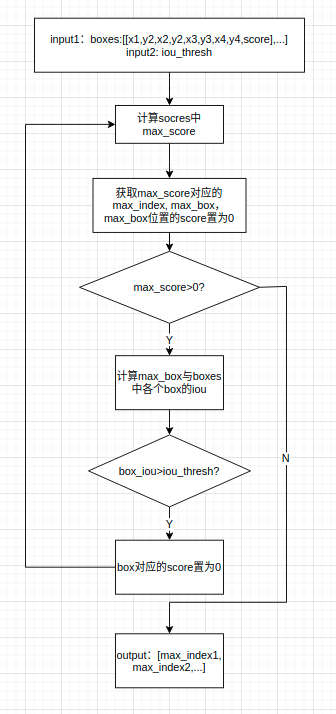
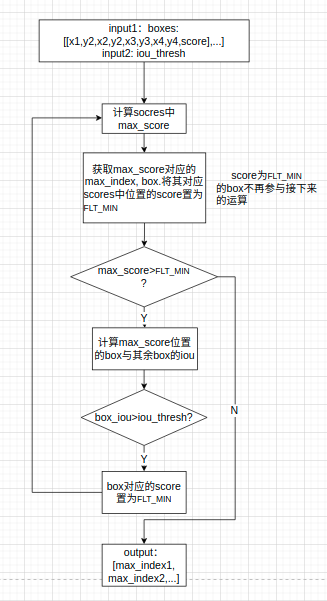
[CNNLCORE-6878]feat(poly_nms):modify design doc.

Changed region(s): [[0.0612, 0.0, 0.9786, 0.9884]]

diff --git a/docs/bangc-docs/poly_nms/poly_nms.md b/docs/bangc-docs/poly_nms/poly_nms.md
@@ -59,8 +59,8 @@
 | 输入数据类型| float                                                  |
 | 输入Shape   | input1: dim[N, 9]; input2:float |
 | 输入Layout  | input1:ARRAY,input2:标量                              |
-| 输出数据类型| uint_32_t                                                  |
-| 输出Shape   | output1:dim[N],长度最大和N相等; output2:float数,表示output1数据长度          |
+| 输出数据类型| uint32_t                                                  |
+| 输出Shape   | output1:dim[N],长度最大和N相等; output2:uint32_t,表示output1数据长度          |
 | 输出Layout  | output1:ARRAY , output2:标量                                        |
 | 模式(可选） | 否 |
 | 是否含有dim/axis等类似语义的参数且该参数支持负数/其他特殊处理 | 否 |
@@ -74,12 +74,12 @@
 
 其需要满足以下情况：
  - 1. 输入input1必须满足dim = 2,shape[1] =9
- - 2. input1:[[x1, y2, x2, y2, x3, y3, x4, y4, score],..]
+ - 2. 输入input1必须满足格式:[[x1, y2, x2, y2, x3, y3, x4, y4, score],..]
 
 
 ### 1.2 算子功能和应用场景描述
 
-**算子功能：** `poly_nms`(polygan nms)算子用于计算多边形非极大值抑制，删除高度冗余的多边形框。
+**算子功能：** `poly_nms`(polygon nms)算子用于计算多边形非极大值抑制，删除高度冗余的多边形框。
 
 **应用场景：** `poly_nms`算子应用于`FasterRCNN`,`trans obb`网络。
 
@@ -91,10 +91,10 @@ def test_nms():
     # #   box1和 box2，box3都有交集,且iou>0.1 输出为 [0]
     # dets = [[0, 0, 1, 0, 1, 1, 0, 1, 3], [0.5, 0.5, 1.5, 0.5, 1.5, 1.5, 0.5, 1.5, 1],[0, 0, 0.5, 0, 0.5, 0.5, 0, 0.5, 1]]
     
-    # #  box1和 box2，box3都没有交集 输出为[0,1,2]
+    # #  box1和 box2，box3都没有交集 输出为[0,1,2],按照socre降序输出
     # dets = [[0, 0, 1, 0, 1, 1, 0, 1, 3], [1.5, 1.5, 2.5, 1.5, 2.5, 2.5, 1.5, 2.5, 2],[0, 0, -0.5, 0, -0.5, -0.5, 0, -0.5, 1]]
  
-    # #  box1和 box2有交集.且iou=0.1428>nms_thresh(0.1)，box1,box2都和box3没交集 输出为[0,2]
+    # #  box1和 box2有交集.且iou=0.1428 > nms_thresh(0.1)，box1,box2都和box3没交集 输出为[0,2]
     # dets = [[0, 0, 1, 0, 1, 1, 0, 1, 3], [0.5, 0.5, 1.5, 0.5, 1.5, 1.5, 0.5, 1.5, 1],[0, 0, -0.5, 0, -0.5, -0.5, 0, -0.5, 1]]
    
     # dets = np.array(dets)
@@ -109,7 +109,7 @@ def test_nms():
 | **handle**           |        操作句柄                        | 输入              |    mluOpHandle_t   | /        | 无       |
 | **boxes_desc**      |    输入boxes的形状描述             | 输入              |           /             | /        | 无       |
 | **boxes**         |    计算所需的输入框        | 输入              | float             | ARRAY    | dim=2, shape[1] =9 |
-| **nms_iou_thresh**   |   计算所需的阈值             | 输入              |    float                   | /       | 标量       |
+| **nms_overlap_thresh**   |   计算所需的阈值             | 输入              |    float                   | /       | 标量       |
 | **workspace**        |   指向额外GDRAM空间的指针          | 输入             |  void *                  | /          | 无       |
 | **workspace_size**   |   输入参数，**workspace**的空间大小   | 输入             |  size_t                  | /          | 无       |
 | **output_desc**      |  输出数据output的形状描述       | 输出       |   /     | /          | 无       |
@@ -121,7 +121,7 @@ def test_nms():
 | 限制类型     | 详细说明                                                     |
 | ------------ | ------------------------------------------------------------ |
 | 输入限制     | boxes为二维张量，必须满足boxes.shape[1]=9         |
-| 数据类型限制 | 只支持float  |
+| 数据类型限制 | 只支持float输入  |
 | 数据范围限制 | 无 |
 |  原位限制     | 不支持原位                                                 |
 | stride限制   | 不支持stride                                      |
@@ -156,7 +156,9 @@ at::Tensor poly_nms_cuda(const at::Tensor boxes, float nms_overlap_thresh);
 #### 2.2.1 poly_nms获取额外申请空间大小
 
 ```c++
-mluOpStatus_t MLUOP_WIN_API mluOpGetPnmsWorkspaceSize(mluOpHandle_t handle, size_t *size);
+mluOpStatus_t MLUOP_WIN_API mluOpGetPnmsWorkspaceSize(mluOpHandle_t handle,
+                                                      const mluOpTensorDescriptor_t boxes_desc,
+                                                      size_t *size);
 ```
 
 **参数描述：**
@@ -170,7 +172,7 @@ mluOpStatus_t MLUOP_WIN_API mluOpGetPnmsWorkspaceSize(mluOpHandle_t handle, size
 mluOpStatus_t MLUOP_WIN_API mluOpPnms(mluOpHandle_t handle,
                                       const mluOpTensorDescriptor_t boxes_desc,
                                       const void *boxes,
-                                      const float pnms_iou_thresh,
+                                      const float nms_overlap_thresh,
                                       void *workspace,
                                       size_t workspace_size,
                                       mluOpTensorDescriptor_t output_desc,
@@ -195,14 +197,14 @@ input2 是float数，是给定的iou的阈值iou_thresh。
 4. 输出剩于box的index(按照score降序输出)
 
 - **MLU实现步骤**
-1. 借助workspace将输入box_data由Nx9转置为9xN. (提前将所有数据转置,是因为在第二步计算max_score时,需要重复load数据计算最大值,计算过程中每次repeat时load的数据量较小,需要重复多次load并进行转置计算,对性能有损耗,故需提前转置.)
+1. 借助workspace将输入box_data由Nx9转置为9xN. (提前将所有数据转置,是因为在第二步计算max_score时,需要重复load所有数据计算scores最大值,计算过程中每次repeat时load的数据量较小,需要重复多次load并进行转置计算,对性能有损耗,故需提前转置.)
 ![trans_box](./trans_box.png)
-2. 计算max_score: scores = boxes_trans + input_stride X 8，从scores中获取score最大值;
+2. 计算max_score: scores = boxes_trans + input_stride x 8，从scores中获取score最大值;
    注意:获取scores中最大socre,该步骤需要load所有input_boxes数据, 获取所有数据中的最大值,不是本次循环计算中加载数据的最大值;对于U1任务,需要计算每个core上最大值, 然后把每个core上最大值加载到sram上计算global_max_score, 再把global_max_score copy到每个core中;
-3. 保存max_score对应的index到nram_save中,保存数量大于nram_save空间时, 将nram_save数据copy到device端.
-4. 计算不规则四边形IOU：计算max_score对应的box和其他的boxes的iou，如果iou > iou_thresh, 则认为该box和max_box交集过大，把该box对应的score置0；
-5. 第4步计算完后，在剩余scores中重新计算max_score，如果max_score <= 0,则计算完成，否则重复第二步；
-6. 按照计算max_score的先后顺序，输出所有的max score对应box的index，还需要输出output_ptr中box的数量，便于取output_ptr中index数据；
+3. 保存max_score对应的index到nram_save中,保存数量大于nram_save空间时, 将nram_save数据copy到device端后重新保存;
+4. 计算不规则四边形iou：计算max_score对应的box和其他的boxes的iou，如果iou > iou_thresh, 则认为该box和max_box交集过大，把该box对应的score置为FLT_MIN；
+5. 第4步计算完后，在剩余scores中重新计算max_score，如果max_score <= FLT_MIN,则计算完成，否则重复第二步；
+6. 按照计算max_score的先后顺序，输出所有的max_score对应box的index，及index的数量；
 
 - **实现流程图**
 
@@ -246,10 +248,10 @@ box_area = ret/2;
 ...
 // 1. 借助workspace完成input_boxes转置
 _mlu_global_ void MLUPNMSTranspose(const void *input_boxes,
-                                     const int input_num_boxes,
-                                     const int input_stride,
-                                     void *output,
-                                     const cnnlDataType_t data_type_input) {
+                                   const int input_num_boxes,
+                                   const int input_stride,
+                                   void *output,
+                                   const cnnlDataType_t data_type_input) {
   ...
     __memcpy((char*)boxes, (char*)input_boxes  input_offset  loop  actual_box_num, actual_box_num * 4,
              GDRAM2NRAM);
@@ -293,11 +295,12 @@ __mlu_func__ void pnms_detection(uint32_t &output_box_num,
     input_offset = avg_core * taskId + (taskId <= rem ? taskId : rem);
   }
 
-  int limit = (buffer_size - 2 * COMPUTE_COUNT_ALIGN * sizeof(IN_DT)) / 224;
-  int max_seg_pad = FLOOR_ALIGN(limit, COMPUTE_COUNT_ALIGN);
+  int limit = (buffer_size - 2 * COMPUTE_COUNT_ALIGN * sizeof(IN_DT)) / 224 / sizeof(IN_DT);
+  int max_seg_num = FLOOR_ALIGN(limit, COMPUTE_COUNT_ALIGN);
+  int max_seg_pad = max_seg_num * sizeof(IN_DT);
 
-  int repeat = input_core_len / max_seg_pad;
-  int remain = input_core_len % max_seg_pad;
+  int repeat = input_core_len / max_seg_num;
+  int remain = input_core_len % max_seg_num;
   int remain_pad = CEIL_ALIGN(remain, COMPUTE_COUNT_ALIGN);
 
   IN_DT *input_box_ptr;
@@ -333,17 +336,17 @@ __mlu_func__ void pnms_detection(uint32_t &output_box_num,
   for (int i = 0; i < repeat; i++) {
     int actual_box_num;
     if (rem != 0) {
-      actual_box_num = (i == repeat - 1) ? rem : max_seg_pad;
+      actual_box_num = (i == repeat - 1) ? rem : max_seg_num;
     } else {
-      actual_box_num = max_seg_pad;
+      actual_box_num = max_seg_num;
     }
 
     // 1 get_max_score_index(); output: max_box (max_score,max_box,max_index,max_area) 11 个数
     // 获取scores中最大socre,该步骤需要load所有input_boxes数据, 获取所有数据中的最大值,不是本次循环计算中加载数据的最大值
     // 对于U1任务,需要计算每个core上最大值, 然后把每个core上最大值加载到sram上计算global_max_score, 再把global_max_score copy到每个core中
     get_max_score_index(input_box_ptr, input_score_ptr, boxes, scores, max_box, max_box_tmp,
-                      box_point_num, input_offset, actual_box_num, repeat, remain, taskDim,
-                      load_dir, store_dir);
+                        box_point_num, input_offset, actual_box_num, repeat, remain, taskDim,
+                        load_dir, store_dir);
 
     // 获取到max_score后,将其对应的index 保存到nram_save中
     // 如果nram_save中保存的数据量超过分配空间大小,则将nram_save 先copy到output_ptr
@@ -360,7 +363,7 @@ __mlu_func__ void pnms_detection(uint32_t &output_box_num,
       nram_save_count++;
       output_box_num++;
       __memcpy(output_data, nram_save, nram_save_count * sizeof(uint32_t), store_dir);
-      // nram_save空间存放select index过多   store to sram/gdram
+      // nram_save空间存放index过多   store to sram/gdram
       if (nram_save_count == nram_save_limit_count) {
         pvLock();
         __memcpy(output_data, nram_save, nram_save_count * sizeof(uint32_t), store_dir);
@@ -370,14 +373,13 @@ __mlu_func__ void pnms_detection(uint32_t &output_box_num,
       }  //  store selected index  NRAM->GDRAM
     }    // if coreId == 0
 
-    // 结束条件: if the max_score <= 0, end
-    // 此处有疑问 scores中存在负值如何处理?
+    // 结束条件: if the max_score <= FLT_MIN, end
     if (core_limit == 1) {
-      if (float(max_box[0]) <= 0) {
+      if (float(max_box[0]) <= FLT_MIN) {
         break;
       }
     } else {
-      if (float(max_box[0]) <= 0) {
+      if (float(max_box[0]) <= FLT_MIN) {
         if (coreId == 0) {
           loop_end_flag[0] = 1;
         }
@@ -389,17 +391,17 @@ __mlu_func__ void pnms_detection(uint32_t &output_box_num,
     }
 
     // 2 cal_poly_areas(); output: box_area
-    cal_poly_areas<IN_DT, IN_DT>(boxes, boxes + actual_box_num, boxes + 2 * actual_box_num,
-                                 boxes + 3 * actual_box_num, boxes + 4 * actual_box_num,
-                                 boxes + 5 * actual_box_num, boxes + 6 * actual_box_num,
-                                 boxes + 7 * actual_box_num, box_area, box_area_tmp, input_stride);
+    cal_poly_areas<IN_DT, IN_DT>(boxes, boxes + actual_box_num * sizeof(IN_DT), boxes + 2 * actual_box_num * sizeof(IN_DT),
+                                 boxes + 3 * actual_box_num * sizeof(IN_DT), boxes + 4 * actual_box_num, * sizeof(IN_DT)
+                                 boxes + 5 * actual_box_num * sizeof(IN_DT), boxes + 6 * actual_box_num * sizeof(IN_DT),
+                                 boxes + 7 * actual_box_num * sizeof(IN_DT), box_area, box_area_tmp, input_stride);
 
     // 3 cal_intersection_area(); 所需空间从nram_tmp中分配
     cal_intersection_area(input_box_ptr, input_score_ptr, boxes, max_box, intersetion_area,
                           nram_tmp, box_point_num, input_offset, actual_box_num, repeat, remain,
                           taskDim, load_dir, store_dir);
 
-    // 4 compare iou with thresh_iou(); iou>thresh_iou, 将其对应的score置0；
+    // 4 compare iou with thresh_iou(); iou>thresh_iou, 将其对应的score置FLT_MIN；
     // area_U = box_area + max_area - area_I
     __bang_add_const((float *)box_area, (float *)box_area, (float)max_box[10], actual_box_num);
     __bang_sub((float *)box_area, (float *)box_area, (float *)intersetion_area, actual_box_num);
@@ -410,6 +412,16 @@ __mlu_func__ void pnms_detection(uint32_t &output_box_num,
               actual_box_num);
     // scores = scores * intersetion_area;
     __bang_mul((float *)scores, (float *)scores, (float)intersetion_area, actual_box_num);
+
+   // compare scores with 0 ->intersetion_area
+    __bang_eq_scalar((float *)intersetion_area, (float *)scores, (float )0.0,
+              actual_box_num);
+    // intersetion_area = intersetion_area(masked) * FLT_MIN
+    __bang_mul_const((float *)intersetion_area, (float *)intersetion_area, (float )FLT_MIN,
+      actual_box_num);
+      // scores = iscores + intersetion_area
+    __bang_add((float *)scores, (float *)scores, (float *)intersetion_area,
+      actual_box_num);
 
     __memcpy((float *)input_score_ptr + offset, (float *)scores, actual_box_num, NRAM2GDRAM);
   }
@@ -464,20 +476,20 @@ __mlu_func__ void cal_intersection_area(const IN_DT *input_box_ptr /*GDRAM*/,
 
 // 获取max_score, 及其对应的box四个点坐标，max_index，计算max_box_area
 template <typename IN_DT, typename OUT_DT>
-__mlu_func__ void get_max_score_index(scores IN_DT *input_box_ptr /*GDRAM*/,
-                                    scores IN_DT *input_score_ptr /*GDRAM*/,
-                                    IN_DT *boxes /*NRAM*/,
-                                    IN_DT *scores /*NRAM*/,
-                                    IN_DT *max_box /*NRAM*/,
-                                    IN_DT *max_box_tmp,
-                                    const int box_point_num ,
-                                    const int input_offset,
-                                    const int max_seg_pad,
-                                    const int repeat,
-                                    const int remain,
-                                    const int core_limit,
-                                    mluMemcpyDirection_t load_dir,
-                                    mluMemcpyDirection_t store_dir) {
+__mlu_func__ void get_max_score_index(IN_DT *input_box_ptr /*GDRAM*/,
+                                      IN_DT *input_score_ptr /*GDRAM*/,
+                                      IN_DT *boxes /*NRAM*/,
+                                      IN_DT *scores /*NRAM*/,
+                                      IN_DT *max_box /*NRAM*/,
+                                      IN_DT *max_box_tmp,
+                                      const int box_point_num ,
+                                      const int input_offset,
+                                      const int max_seg_pad,
+                                      const int repeat,
+                                      const int remain,
+                                      const int core_limit,
+                                      mluMemcpyDirection_t load_dir,
+                                      mluMemcpyDirection_t store_dir) {
   /******FIND MAX START******/
   int max_index = 0;         // the max scores index
   int global_max_index = 0;  // for U1
@@ -517,10 +529,7 @@ __mlu_func__ void get_max_score_index(scores IN_DT *input_box_ptr /*GDRAM*/,
 
   if (core_limit == 1) {
     for (int m = 0; m < 8; m++) {
-      max_box[m + 1] = ((IN_DT *)(input_box_ptr + i * input_stride))[max_index];
-    }
-    for (int idx = 0; idx < 9; idx++) {
-      __bang_printf("max_box[%d]: %f\n", idx, max_box[idx]);
+      max_box[m + 1] = ((IN_DT *)(input_box_ptr + m * input_stride))[max_index];
     }
 
     // cal max_area start
@@ -533,7 +542,7 @@ __mlu_func__ void get_max_score_index(scores IN_DT *input_box_ptr /*GDRAM*/,
     __bang_printf("max_area: %f\n", max_area);
     // cal max_area end
     
-    input_score_ptr[max_index] = 0;
+    input_score_ptr[max_index] = FLT_MIN;
     global_max_index = max_index;
     max_box[9] = max_index;  // max_score | max_x1,y1,x2,y2,x3,y3,x4,y4| max_indx| max_area|
     max_box[10] = max_area;
@@ -542,7 +551,7 @@ __mlu_func__ void get_max_score_index(scores IN_DT *input_box_ptr /*GDRAM*/,
     // the max box's on every core
     if (coreId != 0x80) {
       for (int m = 0; m < 8; m++) {
-        max_box[m + 1] = ((IN_DT *)(input_box_ptr + i * input_stride))[max_index];
+        max_box[m + 1] = ((IN_DT *)(input_box_ptr + m * input_stride))[max_index];
       }
     }
     ((uint32_t *)(max_box + 9))[0] = max_index;
@@ -577,7 +586,7 @@ __mlu_func__ void get_max_score_index(scores IN_DT *input_box_ptr /*GDRAM*/,
     max_area = max_area / 2;
     __bang_printf("max_area: %f\n", max_area);
 
-    input_score_ptr[max_index] = 0;
+    input_score_ptr[max_index] = FLT_MIN;
     global_max_index = max_index;
   }
 }
@@ -588,7 +597,7 @@ __mlu_func__ void get_max_score_index(scores IN_DT *input_box_ptr /*GDRAM*/,
 
 **拆分策略**
 
-借鉴CNNL中NMS算子任务划分:每个core中计算box数量不少于256,否则真实带宽会很小. 基于此, 根据输入boxes数据量分block和U1的任务类型：
+根据输入boxes数据量分Block和U1的任务类型, 需注意每个core中计算box数量不少于256, 否则真实带宽会很小(借鉴CNNL中NMS算子任务划分).  
 1. 对于Block任务，根据NRAM空间计算max_seg_pad，由此计算全部数据的repeat和remain；计算max_score时需要注意max_score是所有input_scores的最大值，不是每次repeat计算量中的最大值
 2. 对于U1任务，需要计算每个core上的max_score，将每个core上的max_score copy到sram上计算global_max_score，再将global_max_score copy到每个core上进行计算；
 
@@ -597,7 +606,7 @@ __mlu_func__ void get_max_score_index(scores IN_DT *input_box_ptr /*GDRAM*/,
 1. 空间划分：
 
 ```c++
-  NRAM N=max_seg_pad
+  NRAM (N=max_seg_pad)
   | tranx_box| scores| max_box(max_score,max_box,max_index,max_area)| max_box_tmp| box_area|
   |    N*8    |  N     |  COMPUTE_COUNT_ALIGN                       | COMPUTE_COUNT_ALIGN|N|
   
